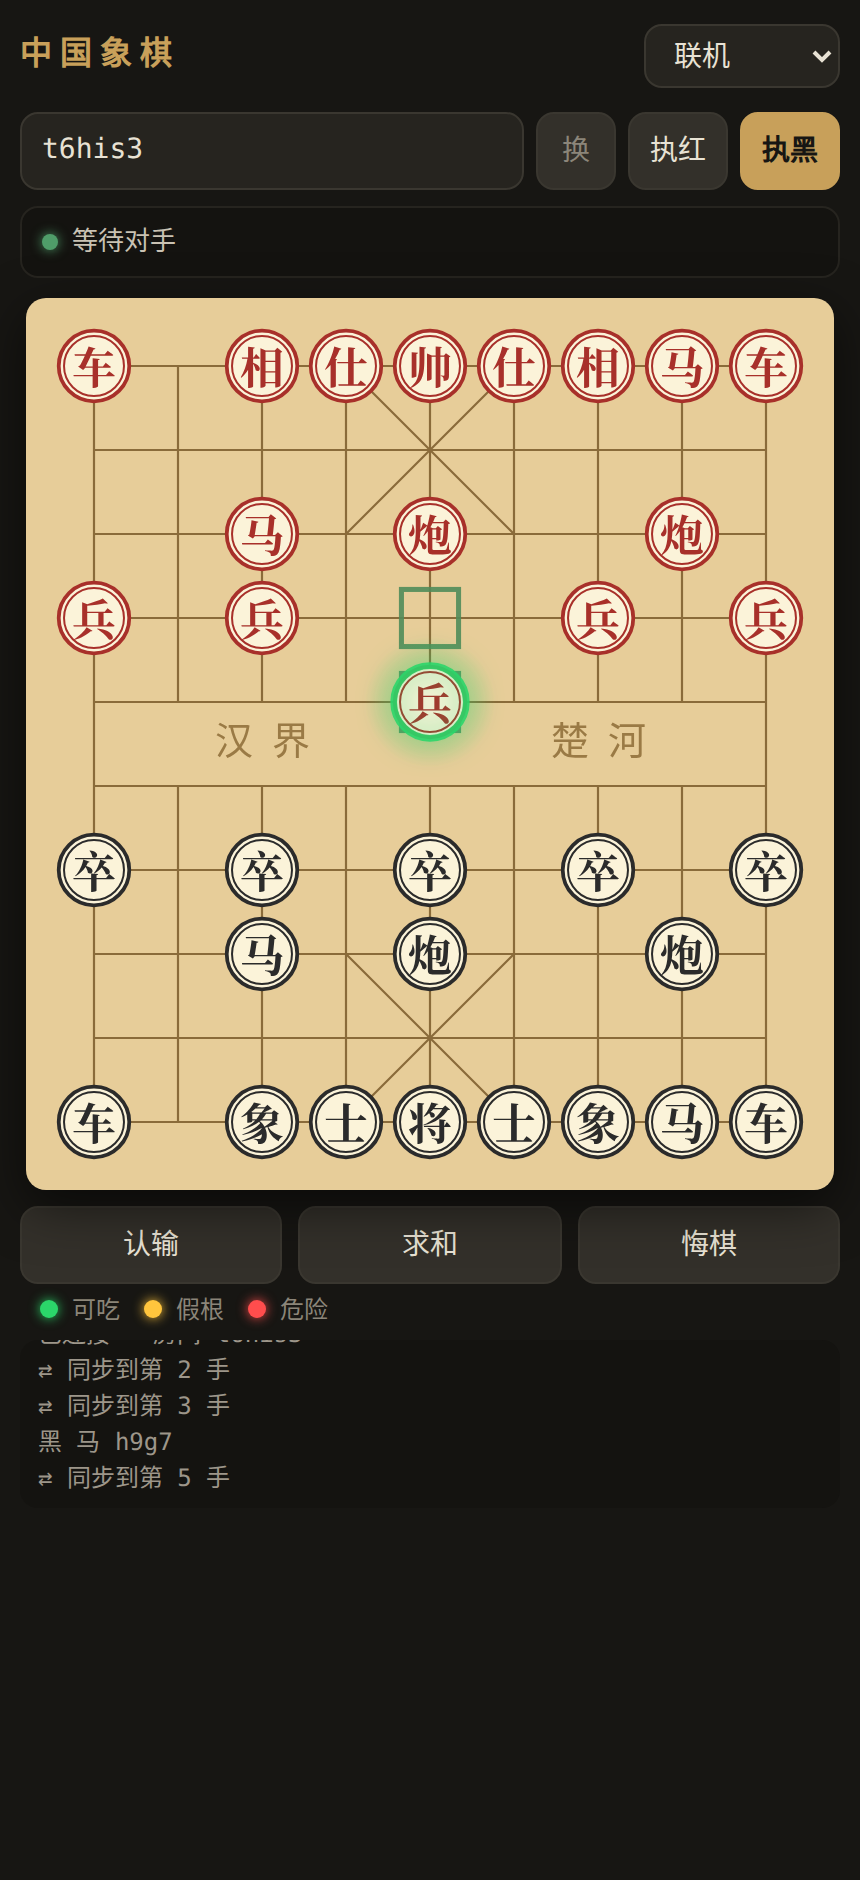
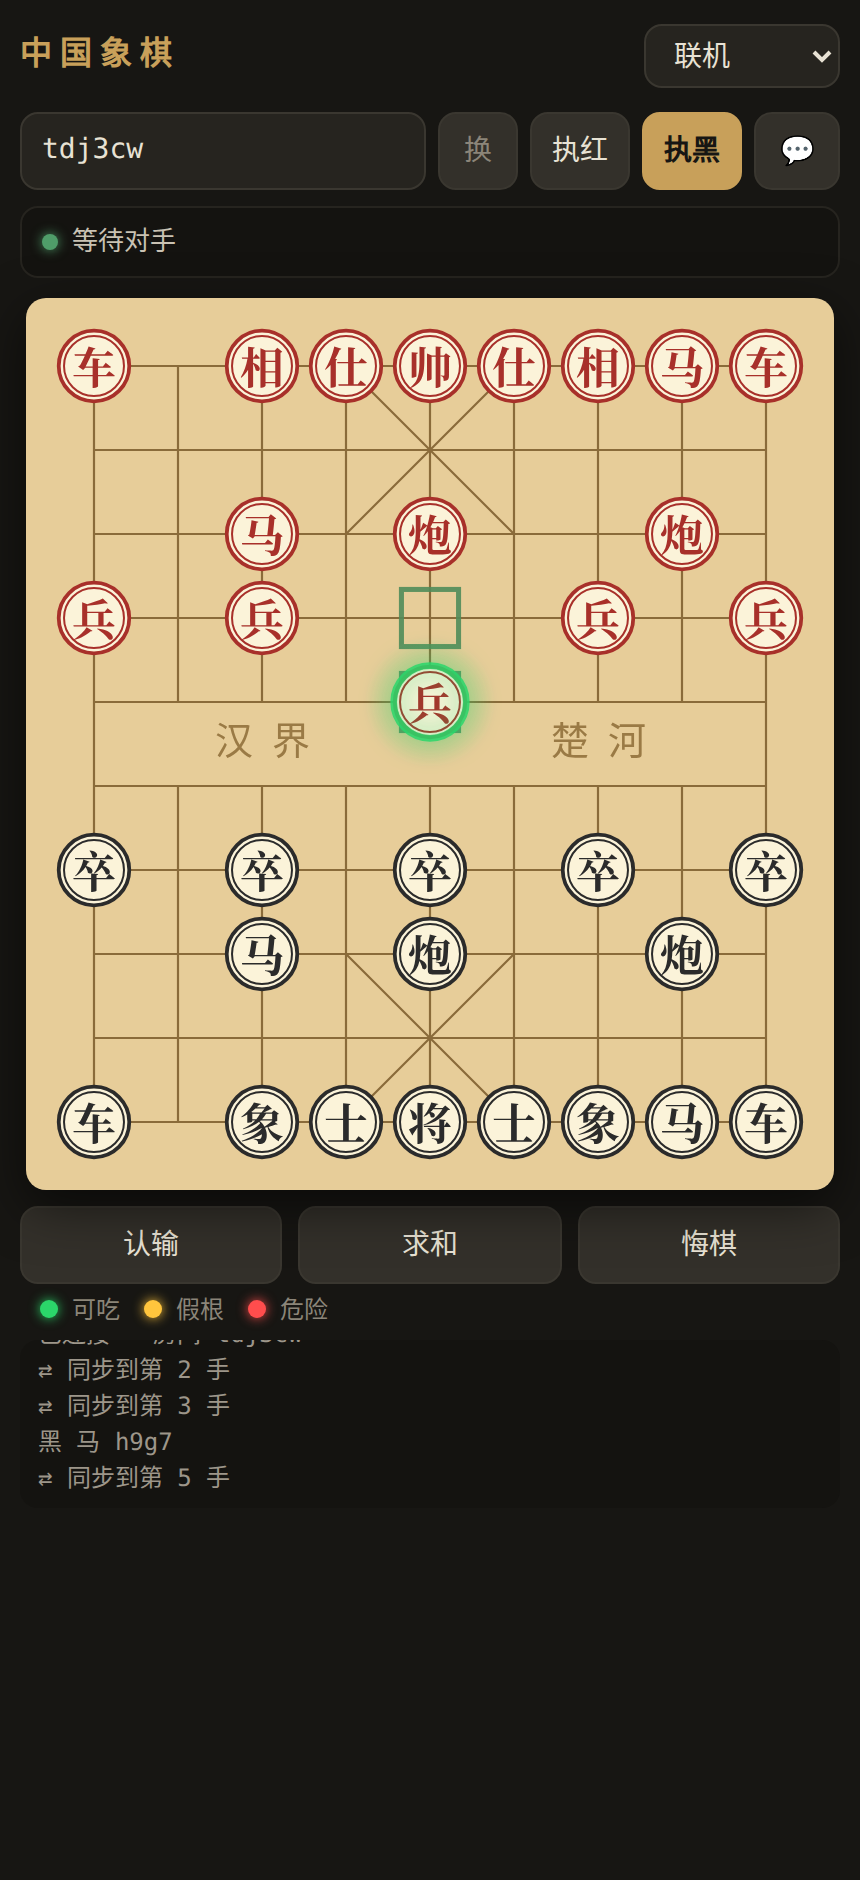
增加联机聊天：消息、未读提示、回车发送、本地模式隐藏

Changed region(s): [[0.6047, 0.0617, 0.9977, 0.1234], [0.0605, 0.0617, 0.1814, 0.0926], [0.5442, 0.0617, 0.5744, 0.0926]]

diff --git a/app.js b/app.js
@@ -754,6 +754,13 @@ function onWire(msg){
     else showAsk('对方请求重新开始',function(){resetGame();log('↺ 对方开新局');},function(){log('已拒绝重新开始');});
     return;
   }
+  if(msg.type==='chat'){
+    var txt=typeof msg.text==='string'?msg.text.slice(0,80):'';
+    if(!txt)return;
+    chatShow(msg.from===RED?'红':'黑',txt,'op');
+    if(mode==='mqtt'&&!el('chat').classList.contains('on')){chatUnread++;updateStatus();}
+    return;
+  }
   if(msg.type==='resign'){
     G.over=true;
     G.result=(msg.from===RED?'红方认输':'黑方认输')+'，'+((msg.from===RED?'黑方':'红方'))+'胜';
@@ -863,6 +870,42 @@ function disconnect(){
   linkState='';peerOnline=false;peerConflict=false;
 }
 
+/* ---------- 聊天 ---------- */
+var chatUnread=0;
+
+function chatShow(who,text,cls){
+  var box=el('chatLog');
+  var row=document.createElement('div');
+  row.className='m '+(cls||'');
+  if(who){
+    var w=document.createElement('span');
+    w.className='who'; w.textContent=who;
+    row.appendChild(w);
+  }
+  row.appendChild(document.createTextNode(text));
+  box.appendChild(row);
+  box.scrollTop=box.scrollHeight;
+  while(box.children.length>100)box.removeChild(box.firstChild);
+}
+
+function chatSend(){
+  var inp=el('chatIn');
+  var txt=(inp.value||'').trim().slice(0,80);
+  if(!txt)return;
+  if(mode!=='mqtt'){ chatShow('','联机模式才能聊天','sys'); return; }
+  if(!peerOnline){ chatShow('','对方不在线','sys'); return; }
+  send({v:1,type:'chat',room:room,from:mySide,text:txt,ts:Date.now()});
+  chatShow('我',txt,'me');
+  inp.value='';
+}
+
+function chatToggle(){
+  var box=el('chat');
+  var on=!box.classList.contains('on');
+  box.classList.toggle('on',on);
+  if(on){ chatUnread=0; updateStatus(); el('chatIn').focus(); }
+}
+
 /* ---------- 界面 ---------- */
 var pendingReq=null, askYes=null, askNo=null;
 
@@ -888,6 +931,8 @@ function updateStatus(){
   el('statText').textContent=t;
   el('dot').className='dot'+(((mode==='local')||linkState==='online')?' ok':'');
 
+  var cb=el('btnChat');
+  if(cb)cb.textContent=chatUnread>0?('💬'+chatUnread):'💬';
   el('btnResign').textContent=G.over?'新对局':'认输';
   el('btnDraw').disabled=G.over;
   el('btnUndoReq').disabled=G.over;
@@ -899,6 +944,9 @@ function setMode(m){
   mySide=null;peerConflict=false;flip=false;
   document.querySelectorAll('.sideBtn').forEach(function(b){b.classList.remove('on');});
   el('netRow').style.display=(m==='mqtt')?'flex':'none';
+  el('chat').classList.toggle('off',m!=='mqtt');
+  if(m!=='mqtt')el('chat').classList.remove('on');
+  chatUnread=0;
   el('actLocal').style.display=(m==='mqtt')?'none':'flex';
   el('actOnline').style.display=(m==='mqtt')?'flex':'none';
   hideAsk();
@@ -991,6 +1039,11 @@ function sendReq(type,label){
 
 /* ---------- 绑定 ---------- */
 el('mode').addEventListener('change',function(){setMode(this.value);});
+el('btnChat').addEventListener('click',chatToggle);
+el('chatSend').addEventListener('click',chatSend);
+el('chatIn').addEventListener('keydown',function(e){
+  if(e.key==='Enter'){ e.preventDefault(); chatSend(); }
+});
 
 el('btnRand').addEventListener('click',function(){
   el('room').value=randRoom();

diff --git a/index.html b/index.html
@@ -22,6 +22,7 @@
     <button id="btnRand" class="ghost" title="换一个房间号">换</button>
     <button id="btnRed" class="sideBtn">执红</button>
     <button id="btnBlack" class="sideBtn">执黑</button>
+    <button id="btnChat" class="ghost" title="聊天">💬</button>
   </div>
 
   <div id="stat"><span class="dot" id="dot"></span><span id="statText"></span></div>
@@ -50,6 +51,14 @@
   </div>
 
   <div id="legend"><i class="lg g"></i>可吃<i class="lg y"></i>假根<i class="lg r"></i>危险</div>
+
+  <div id="chat" class="off">
+    <div id="chatLog"></div>
+    <div class="bar">
+      <input id="chatIn" maxlength="80" placeholder="说点什么" autocomplete="off">
+      <button id="chatSend">发送</button>
+    </div>
+  </div>
 
   <div id="log"></div>
 </div>

diff --git a/style.css b/style.css
@@ -75,3 +75,15 @@
   #log{height:84px;overflow:auto;font-size:12px;color:#9d968a;background:#141310;
     border-radius:9px;padding:6px 9px;font-family:ui-monospace,Menlo,monospace;white-space:pre-wrap}
   .tip{font-size:12px;color:#807a6e;margin:4px 0 0}
+
+/* 聊天 */
+#chat{display:none;flex-direction:column;gap:6px;margin:6px 0}
+#chat.on{display:flex}
+#chat.off{display:none}
+#chatLog{height:120px;overflow-y:auto;background:#141310;border:1px solid #26241f;
+  border-radius:9px;padding:7px 9px;font-size:13px;line-height:1.6}
+#chatLog .m{word-break:break-word}
+#chatLog .me{color:#c8a05a}
+#chatLog .op{color:#8fb2d9}
+#chatLog .sys{color:#7a746a;font-size:12px}
+#chatLog .who{opacity:.75;margin-right:4px}
